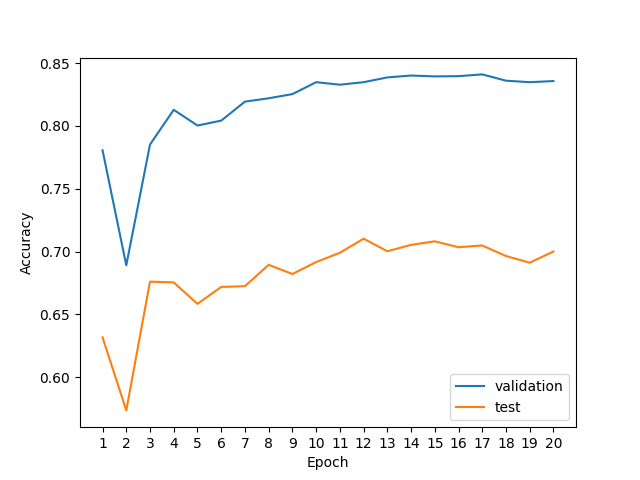
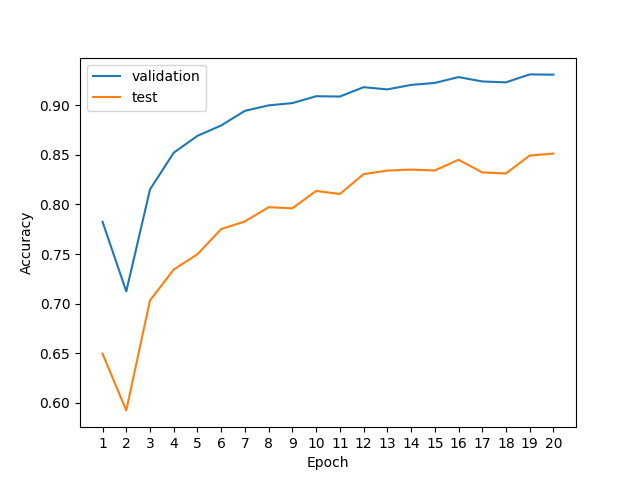
question 1.2

diff --git a/hw1-q1.py b/hw1-q1.py
@@ -88,13 +88,16 @@ class MLP(object):
     # linear models with no changes to the training loop or evaluation code
     # in main().
     def __init__(self, n_classes, n_features, hidden_size):
-        self.W = [np.random.normal(0.1,0.1**2,(hidden_size, n_features)),np.random.normal(0.1,0.1**2,(n_classes, hidden_size))]
-        self.B = [np.zeros(hidden_size),np.zeros(n_classes)]
+        self.W = [np.random.normal(loc=0.1,scale=0.1,size=(hidden_size, n_features)),
+                  np.random.normal(loc=0.1,scale=0.1,size=(n_classes, hidden_size))]
+        self.B = [np.zeros(hidden_size), np.zeros(n_classes)]
 
     def ReLU(self, x):
         return (x > 0) * x 
 
-
+    def derivateReLu(self, x):
+        return (x > 0) * 1
+        
     def compute_label_probabilities(self, output):
         # softmax transformation.
         probs = np.exp(output) / np.sum(np.exp(output))
@@ -118,24 +121,28 @@ class MLP(object):
 
         y_one_hot_vector = np.zeros((10,))
         y_one_hot_vector[y] = 1
-        grad_z = probs - y_one_hot_vector
+        
+        grad_z = probs - y_one_hot_vector # Grad of loss w.r.t. last z
 
         grad_weights = []
         grad_biases = []
 
-        g = self.ReLU(output)
         num_layers = len(self.W)
         for i in range(num_layers-1, -1, -1):
+            # dL/dW = dL/dz . h^T
             h = x if i == 0 else hiddens[i-1]
             grad_weights.append(grad_z[:, None].dot(h[:, None].T))
+            
+            # dL/db = dL/dz
             grad_biases.append(grad_z)
 
+            # dL/dh[i-1] = W[i]^T . dL/dz[i] 
             grad_h = self.W[i].T.dot(grad_z)
-            grad_z = grad_h * np.where(h[0] <= 0,0,1)   
+            # dL /dz = dL/dh * dh/dz
+            grad_z = grad_h * self.derivateReLu(h)
 
         grad_weights.reverse()
         grad_biases.reverse()
-
         return grad_weights, grad_biases
 
     def predict_label(self, output):
@@ -176,7 +183,6 @@ class MLP(object):
             output, hiddens = self.forward(x)
             grad_weights, grad_biases = self.backward(x, y, output, hiddens)
             self.update_parameters(grad_weights, grad_biases, learning_rate)
-
    
 def plot(epochs, valid_accs, test_accs):
     plt.xlabel('Epoch')
@@ -185,7 +191,7 @@ def plot(epochs, valid_accs, test_accs):
     plt.plot(epochs, valid_accs, label='validation')
     plt.plot(epochs, test_accs, label='test')
     plt.legend()
-    plt.show()
+    #plt.show()
     plt.savefig('question_1.2.b.png')
 
 def main():
@@ -247,7 +253,6 @@ def main():
         print(valid_accs, test_accs)
 
     print(model.W)
-    
     # plot
     plot(epochs, valid_accs, test_accs)
 
